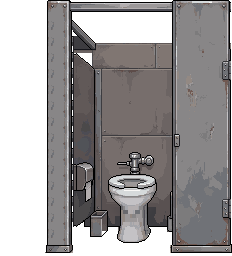
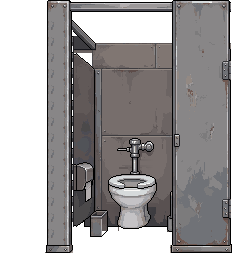
대변기 칸: 변기를 밸브·배관과 통째로 14px 위로(늘임 취소), 미리보기 에일린은 원본 그림(eileen_stand) 2배로 — 구멍 뚫린 추출본 버림
Claude-Session: https://claude.ai/code/session_01MHVZo2gZiRBKe3eSLJCMrg

Changed region(s): [[0.4828, 0.8125, 0.6638, 0.9688], [0.5129, 0.5312, 0.6638, 0.6875]]

diff --git a/tools/bg_fix/stall_toilet_raise.py b/tools/bg_fix/stall_toilet_raise.py
@@ -1,5 +1,5 @@
 """대변기 칸: 원래 변기로 되돌리고 높이만 올림 (2026-11-01 13:35 사용자 「기존 변기로 환원한 다음 높이를 높여보자」, 생성 없음)
-변기 윗부분(원본 y186~219: 좌석·몸통)을 R px 위로 올리고, 가장 가는 목(y220~224)을 R줄 더 늘여 이음. 밑동(y225~)은 그대로.
+변기를 모양 그대로 통째로 R px 위로 옮김(13:37 사용자 「늘이지 말고 위치를 올려」).
 옛 자리는 벽 색으로 메우고(밸브는 그대로), 바닥 쪽은 투명.
 사용: python3 stall_toilet_raise.py <미리보기.png> <에일린2배.png> [R=14] [full]"""
 import sys
@@ -17,6 +17,15 @@ fg = ((L > 112) | (L < 60)) & box
 lab, n = nd.label(fg); sizes = nd.sum(fg, lab, range(1, n + 1)); m = lab == (1 + int(np.argmax(sizes)))
 m = nd.binary_fill_holes(m); m = nd.binary_opening(m, iterations=1) | (m & (L < 60)); m = nd.binary_fill_holes(m)
 m[226, :133] = False; m[226, 163:] = False        # 벽 밑 검은 선은 변기가 아님
+# 13:37 사용자 「배관이랑 통채로」: 벽 밸브·배관(원본 x128~172, y148~187)도 같이 옮김
+# 밸브: 네모(원본 x129~171, y144~188) 안에서 그 줄 벽 색(양옆 x117~128·172~183 중앙값)과 밝기가 10 넘게 다른 픽셀 = 밸브·배관·그늘
+v = np.zeros(L.shape, bool)
+for yy in range(144, 189):
+    wl = np.median(np.r_[L[yy, 117:129], L[yy, 172:184]])
+    v[yy, 129:172] = np.abs(L[yy, 129:172] - wl) > 10
+v = nd.binary_opening(v, iterations=1) | (v & (L < 60))
+v = nd.binary_fill_holes(v)
+m |= v
 
 def raise_toilet(p_in, p_out):
     b = np.array(Image.open(D + p_in).convert('RGBA'))
@@ -24,7 +33,7 @@ def raise_toilet(p_in, p_out):
     mc = np.zeros(b.shape[:2], bool); mc[:, :] = False
     mc[:, 122 - X0:178 - X0] = m[:, 122:178]
     tp[mc] = b[mc]
-    for y in range(186, 226):                      # 옛 자리: 벽(줄마다 양끝 벽 색 이음)
+    for y in range(144, 226):                      # 옛 자리: 벽(줄마다 양끝 벽 색 이음)
         xs = np.nonzero(mc[y])[0]
         if not len(xs): continue
         l, r = b[y, xs.min() - 1, :3].astype(int), b[y, xs.max() + 1, :3].astype(int)
@@ -35,11 +44,7 @@ def raise_toilet(p_in, p_out):
     b[227:][mc[227:]] = 0
     rows = list(range(186, 220)) + [220] * 0
     out = np.zeros_like(b)
-    for y in range(186, 220): out[y - R] = tp[y]                     # 좌석·몸통 R 위로
-    neck = list(range(220, 225))
-    tgt = list(range(220 - R, 225))                                    # 늘인 목
-    for i, y in enumerate(tgt): out[y] = tp[neck[min(len(neck) - 1, i * len(neck) // len(tgt))]]
-    for y in range(225, 244): out[y] = tp[y]                         # 밑동 그대로
+    for y in range(144, 244): out[y - R] = tp[y]                     # 13:37 사용자: 늘이지 말고 변기 통째로 R 위로
     A = out[..., 3] > 0
     b[A] = out[A]
     Image.fromarray(b).save(D + p_out)
